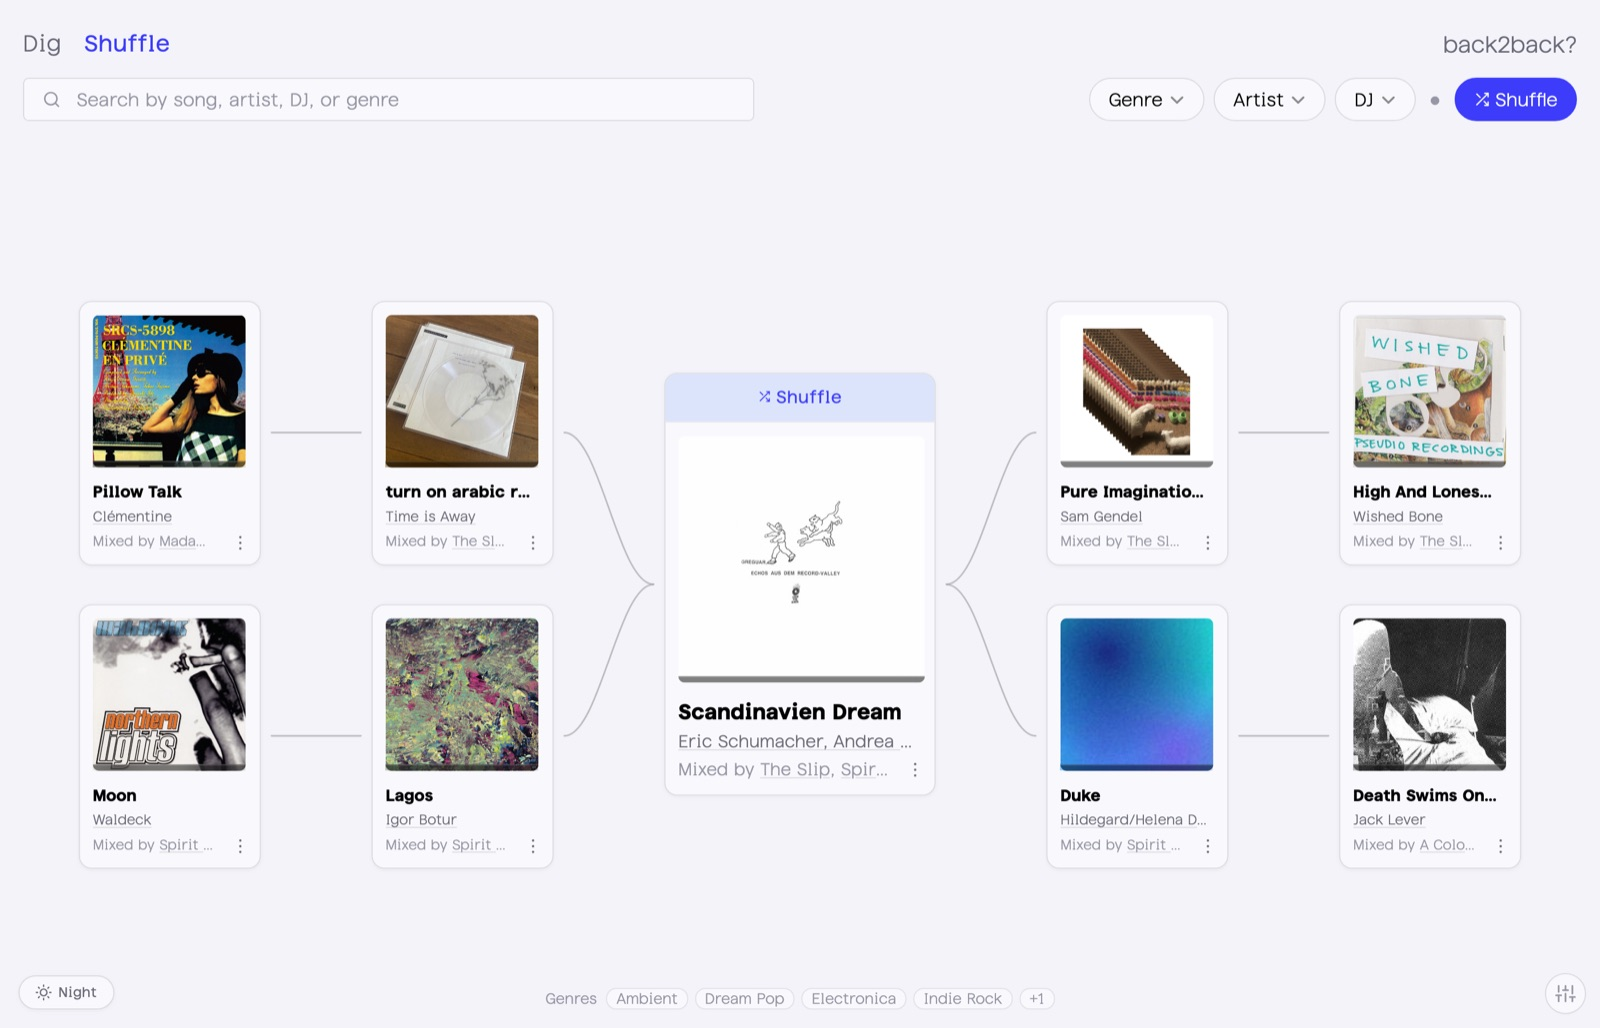
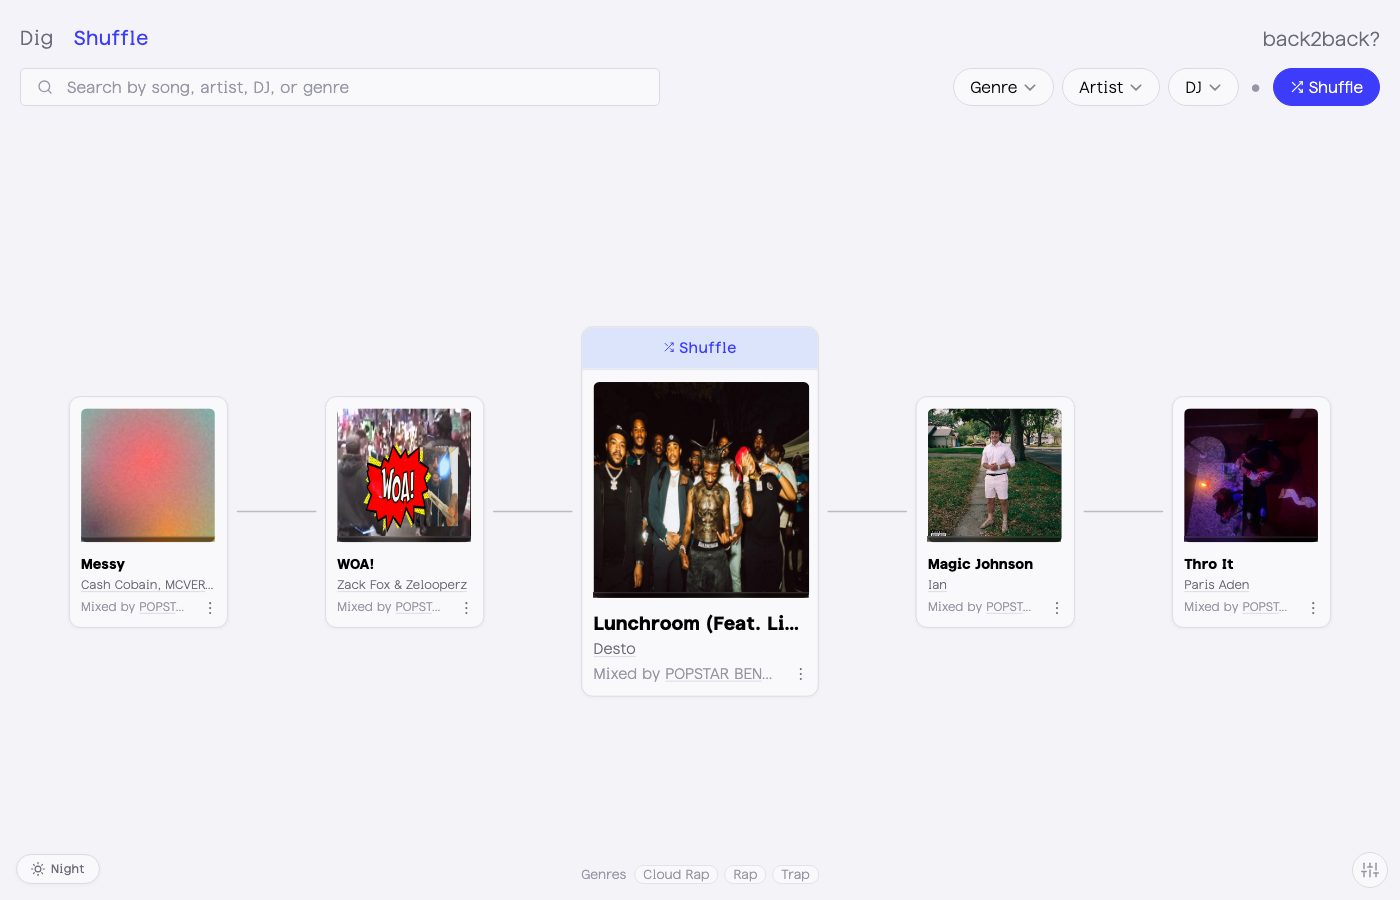
Onboarding: mobile screenshots, light/dark assets, smaller mobile frames
- Show device-appropriate screenshots: mobile-cropped shots on mobile
  (with the app's own header; the SoundCloud player is now in-frame for
  Shuffle), desktop shots on desktop.
- Add light + dark variants of every screenshot; the controller picks the
  file matching the current theme (body.night) and viewport, and only loads
  it when the panel opens (no default src).
- Mobile frames render at ~60%, centered, as a device preview.
- Nudge mobile header/body type down ~1px.
- Recapture desktop assets at 1x (~512K -> ~192K each); capture script now
  regenerates all 8 {dig,shuffle} x {desktop,mobile} x {light,dark}.

diff --git a/index.html b/index.html
@@ -266,7 +266,9 @@
             <div class="ob-inner">
               <div class="ob-frame rise">
                 <div class="ob-bar" aria-hidden="true"><i></i><i></i><i></i><span class="ob-url">back2back — dig</span></div>
-                <img class="ob-shot" src="img/onboard-dig.jpg" alt="Dig mode: a wall of album artwork" draggable="false">
+                <img class="ob-shot" alt="Dig mode: a wall of album artwork" draggable="false"
+                     data-desk="img/onboard-dig.jpg" data-desk-dark="img/onboard-dig-dark.jpg"
+                     data-mob="img/onboard-dig-mobile.jpg" data-mob-dark="img/onboard-dig-mobile-dark.jpg">
               </div>
               <div class="ob-copy">
                 <h2 class="ob-h rise">In Dig mode, pan around until an <em>album cover</em> catches your eye</h2>
@@ -280,7 +282,9 @@
             <div class="ob-inner">
               <div class="ob-frame rise">
                 <div class="ob-bar" aria-hidden="true"><i></i><i></i><i></i><span class="ob-url">back2back — shuffle</span></div>
-                <img class="ob-shot" src="img/onboard-shuffle.jpg" alt="Shuffle mode: a central track connected to adjacent tracks" draggable="false">
+                <img class="ob-shot" alt="Shuffle mode: a central track connected to adjacent tracks" draggable="false"
+                     data-desk="img/onboard-shuffle.jpg" data-desk-dark="img/onboard-shuffle-dark.jpg"
+                     data-mob="img/onboard-shuffle-mobile.jpg" data-mob-dark="img/onboard-shuffle-mobile-dark.jpg">
               </div>
               <div class="ob-copy">
                 <h2 class="ob-h rise">In Shuffle, let the DJs do the recommending</h2>

diff --git a/js/app.js b/js/app.js
@@ -347,7 +347,19 @@ document.addEventListener('DOMContentLoaded', async () => {
     }
     function go(n) { i = Math.max(0, Math.min(slides.length - 1, n)); render(); }
 
+    // Pick each screenshot to match the current viewport (mobile/desktop) and theme (light/night).
+    function syncShots() {
+      const mob = window.matchMedia('(max-width: 768px)').matches;
+      const night = document.body.classList.contains('night');
+      const key = (mob ? 'mob' : 'desk') + (night ? 'Dark' : '');
+      overlay.querySelectorAll('.ob-shot').forEach(img => {
+        const src = img.dataset[key] || img.dataset[mob ? 'mob' : 'desk'];
+        if (src && !img.src.endsWith(src)) img.src = src;
+      });
+    }
+
     function open() {
+      syncShots();
       // Collapse the header's filter chrome first (so it can't bleed over the panel),
       // then pin the sliding panel just below the resulting (variable-height) header.
       document.body.classList.add('ob-open');

diff --git a/css/mobile.css b/css/mobile.css
@@ -495,8 +495,12 @@
 
   .ob-viewport { flex: 1 0 auto; padding: 0; }
   .ob-inner { gap: 24px; padding: 20px 18px 8px; }
-  .ob-h { font-size: clamp(23px, 6.4vw, 30px); max-width: 22ch; }
-  .ob-lead { font-size: 16px; }
+  /* Mobile screenshots already include the app's own header, so drop the desktop browser chrome. */
+  .ob-bar { display: none; }
+  /* Portrait phone shots — show them small and centered, like a device preview. */
+  .ob-frame { width: 60%; align-self: center; }
+  .ob-h { font-size: clamp(22px, 6.1vw, 29px); max-width: 22ch; }
+  .ob-lead { font-size: 15px; }
   .ob-motif { width: min(78%, 300px); margin-bottom: 4px; }
 
   .ob-nav {

diff --git a/css/desktop.css b/css/desktop.css
@@ -2134,6 +2134,7 @@ body.night .genre-pill.genre-more-pill:hover {
 }
 .ob-bar i { width: 9px; height: 9px; border-radius: 50%; background: color-mix(in srgb, var(--text-primary) 18%, transparent); }
 .ob-bar .ob-url { margin-left: 8px; font-size: 11px; font-weight: 500; color: var(--text-tertiary); }
+.ob-frame picture { display: block; }
 .ob-shot { display: block; width: 100%; height: auto; }
 
 /* intro graph motif */
